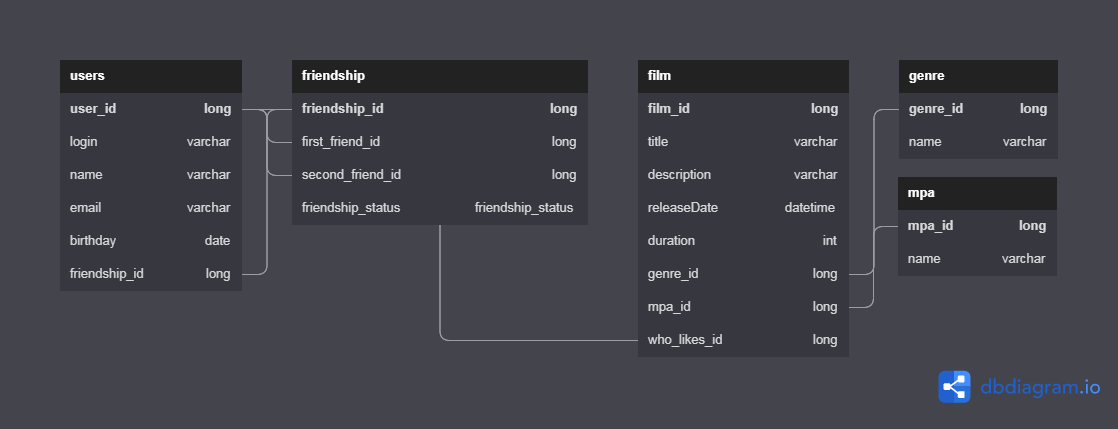
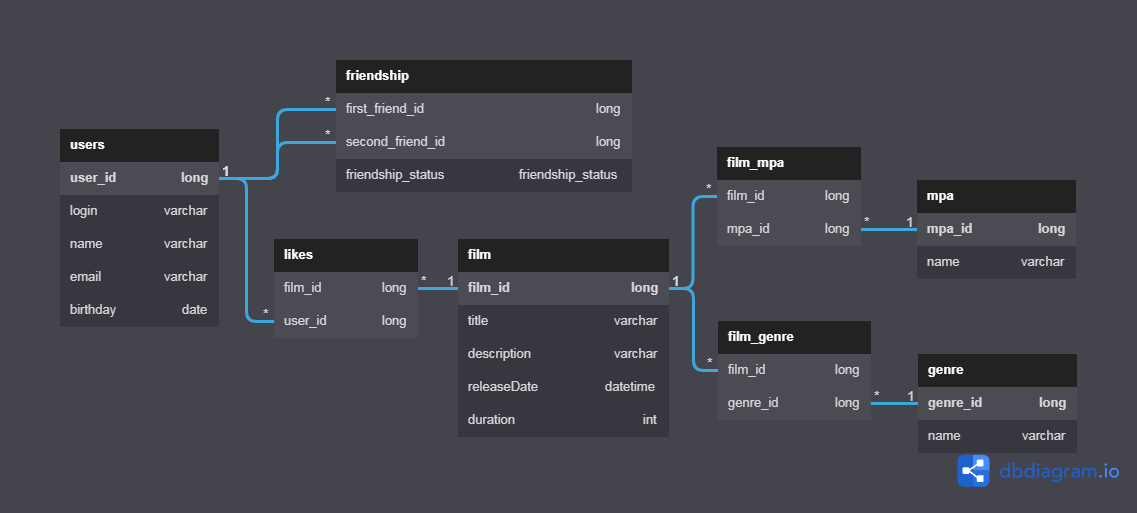
Диаграмма планируемой базы данных

diff --git a/README.md b/README.md
@@ -6,30 +6,31 @@
 
 ### Примеры запросов в БД для основных операций вашего приложения:
 
-#### Получить всех пользователей и их друзей
+#### Получить всех пользователей
 SELECT * <br />
 FROM user AS u <br />
-LEFT JOIN friendship AS fa ON u.friendship_id = fa.friendship_id  <br />
-#### Получить все фильмы c жанрами и возрастными ограничениями
+#### Получить все фильмы, с жанрами и возрастными ограничениями
 SELECT * <br />
 FROM films AS f <br />
-LEFT JOIN genre AS g ON f.genre_id = g.genre_id <br />
-LEFT JOIN mpa AS m ON f.mpa_id = m.mpa_id <br />
+LEFT JOIN film_genre AS fg ON f.film_id = fg.film_id <br />
+LEFT JOIN genre AS g ON fg.genre_id = g.genre_id <br />
+LEFT JOIN film_mpa AS fm ON f.film_id = fm.film_id <br />
+LEFT JOIN mpa AS m ON fm.mpa_id = m.mpa_id <br />
 #### Получить топ 10 фильмов
-SELECT f.title as title <br />
-       COUNT(who_likes_id) as likes <br />
+SELECT f.title AS title <br />
+       COUNT (l.film_id) AS likes
 FROM films AS f <br />
+LEFT JOIN likes AS l ON f.film_id = l.film_id <br />
 GROUP BY title <br />
 ORDER BY likes DESC <br />
 LIMIT 10 <br />
 #### Получить список общих друзей для пользователей с id = 1 и id = 2
 SELECT u.user_id, <br />
        u.name, <br />
-       fa.second_friend_id, <br />
+       fa.second_friend_id as friend_id, <br />
        u2.name <br />
 FROM user AS u <br />
-LEFT JOIN friendship AS fa ON u.friendship_id = fa.friendship_id <br />
-LEFT JOIN user AS u2 ON fa.second_friend_id = u2.user_id <br />
+LEFT JOIN friendship AS fa ON u.user_id = fa.first_friend_id <br />
 WHERE u.user_id = '1' <br />
       or u.user_id = '2' <br />
-HAVING COUNT(fa.second_friend_id) > 1 <br />
+HAVING COUNT(friend_id) > 1 <br />
